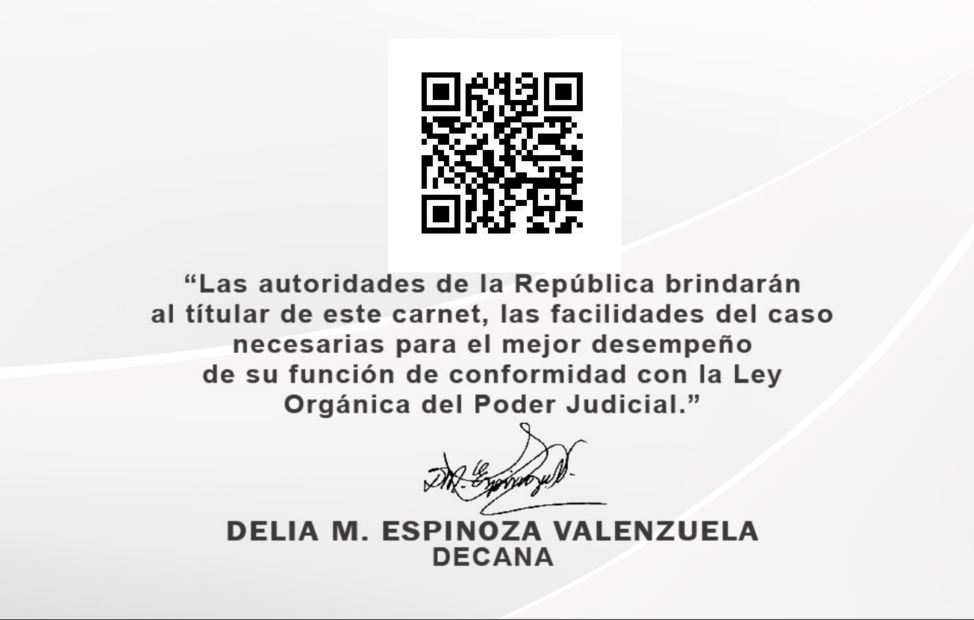
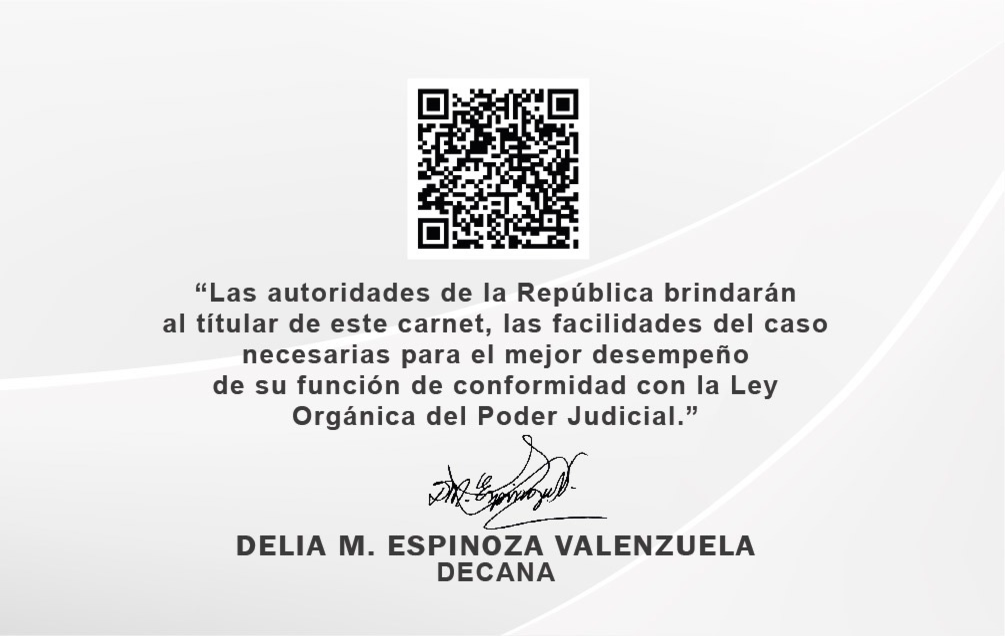
add CE.config

Changed region(s): [[0.154, 0.429, 0.8624, 0.9194], [0.4004, 0.0919, 0.616, 0.3984]]

diff --git a/carnet/carnetService.py b/carnet/carnetService.py
@@ -7,12 +7,12 @@ from PIL import ImageOps
 
 from qr.qrService import QrService
 
-from .carnetConfig import PHOTO, SIGNATURE, TEXT, FONT_SIZE, QR
+from .carnetConfig import PHOTO_DNI, SIGNATURE_CE, SIGNATURE_DNI, TEXT_DNI, PHOTO_CE, TEXT_CE, FONT_SIZE, QR
 
 
 class CarnetService:
-
-    TEMPLATE_PATH = "assets/template.png"
+    TEMPLATE_DNI_PATH = "assets/dni_template.png"
+    TEMPLATE_CE_PATH = "assets/ce_template.png"
     TEMPLATE_BACK_PATH = "assets/back_template.png"
     FONT_PATH = "assets/Montserrat-Bold.ttf"
 
@@ -54,7 +54,7 @@ class CarnetService:
         Path(output_folder).mkdir(exist_ok=True)
 
         carnet = Image.open(
-            self.TEMPLATE_PATH
+            self.TEMPLATE_DNI_PATH
         ).convert("RGBA")
 
         draw = ImageDraw.Draw(carnet)
@@ -69,15 +69,15 @@ class CarnetService:
 
         foto = self._resize_cover(
             foto,
-            PHOTO["width"],
-            PHOTO["height"]
+            PHOTO_DNI["width"],
+            PHOTO_DNI["height"]
         )
 
         carnet.paste(
             foto,
             (
-                PHOTO["x"],
-                PHOTO["y"]
+                PHOTO_DNI["x"],
+                PHOTO_DNI["y"]
             )
         )
 
@@ -91,15 +91,15 @@ class CarnetService:
 
         firma = self._resize_cover(
             firma,
-            SIGNATURE["width"],
-            SIGNATURE["height"]
+            SIGNATURE_DNI["width"],
+            SIGNATURE_DNI["height"]
         )
 
         carnet.paste(
             firma,
             (
-                SIGNATURE["x"],
-                SIGNATURE["y"]
+                SIGNATURE_DNI["x"],
+                SIGNATURE_DNI["y"]
             ),
             firma
         )
@@ -109,28 +109,28 @@ class CarnetService:
         # ======================
 
         draw.text(
-            TEXT["dni"],
+            TEXT_DNI["dni"],
             dni,
             fill="black",
             font=self.font
         )
 
         draw.text(
-            TEXT["apellidos"],
+            TEXT_DNI["apellidos"],
             apellidos,
             fill="black",
             font=self.font
         )
 
         draw.text(
-            TEXT["nombres"],
+            TEXT_DNI["nombres"],
             nombres,
             fill="black",
             font=self.font
         )
 
         draw.text(
-            TEXT["registro"],
+            TEXT_DNI["registro"],
             nro_registro,
             fill="black",
             font=self.font
@@ -139,6 +139,110 @@ class CarnetService:
         output = str(
             Path(output_folder) /
             f"{dni}.png"
+        )
+
+        carnet.save(output)
+
+        return output
+    
+    def generate_ce(self,
+        ce: str,
+        nombres: str,
+        apellidos: str,
+        nro_registro: str,
+        firma_path: str,
+        image_path: str,
+        output_folder: str = "output"
+    ) -> str:
+
+        Path(output_folder).mkdir(exist_ok=True)
+
+        carnet = Image.open(
+            self.TEMPLATE_CE_PATH
+        ).convert("RGBA")
+
+        draw = ImageDraw.Draw(carnet)
+
+        # ======================
+        # FOTO
+        # ======================
+
+        foto = Image.open(
+            image_path
+        ).convert("RGBA")
+
+        foto = self._resize_cover(
+            foto,
+            PHOTO_CE["width"],
+            PHOTO_CE["height"]
+        )
+
+        carnet.paste(
+            foto,
+            (
+                PHOTO_CE["x"],
+                PHOTO_CE["y"]
+            )
+        )
+
+        # ======================
+        # FIRMA
+        # ======================
+
+        firma = Image.open(
+            firma_path
+        ).convert("RGBA")
+
+        firma = self._resize_cover(
+            firma,
+            SIGNATURE_CE["width"],
+            SIGNATURE_CE["height"]
+        )
+
+        carnet.paste(
+            firma,
+            (
+                SIGNATURE_CE["x"],
+                SIGNATURE_CE["y"]
+            ),
+            firma
+        )
+
+        # ======================
+        # TEXTOS
+        # ======================
+
+        draw.text(
+            TEXT_CE["ce"],
+            ce,
+            fill="black",
+            font=self.font
+        )
+
+        draw.text(
+            TEXT_CE["apellidos"],
+            apellidos,
+            fill="black",
+            font=self.font
+        )
+
+        draw.text(
+            TEXT_CE["nombres"],
+            nombres,
+            fill="black",
+            font=self.font
+        )
+
+        draw.text(
+            TEXT_CE["registro"],
+            nro_registro,
+            fill="black",
+            font=self.font
+        )
+
+        output = str(
+            Path(output_folder) /
+            f"{ce}.png"
         )
 
         carnet.save(output)

diff --git a/main.py b/main.py
@@ -3,6 +3,7 @@ from pydantic import BaseModel
 from pathlib import Path
 from carnet import carnetService
 from pdf import pdfService
+from enum import Enum
 
 from sign.upgradeSign import upgrade_sign
 from sign.upgradeSignv import upgrade_sign_v5
@@ -25,10 +26,15 @@ class SignRequest(BaseModel):
 class ImageRequest(BaseModel):
     imageUrl: str
 
+class DocumentType(str, Enum):
+    DNI = "DNI"
+    CE = "CE"
+
 class CarnetRequest(BaseModel):
     imageUrl: str
     signatureUrl: str
-    dni: str
+    number_document: str
+    type_document: DocumentType
     names: str
     lastNames: str
     nro_registro: str
@@ -127,17 +133,36 @@ def generate_carnet(request: CarnetRequest):
 
     carnet_service = carnetService.CarnetService()
 
-    generated_carnet_path = carnet_service.generate(
-        dni=request.dni,
+    generated_carnet_path=""
+
+    if request.type_document == DocumentType.DNI:
+        generated_carnet_path = carnet_service.generate(
+        dni=request.number_document,
         nombres=request.names,
         apellidos=request.lastNames,
         nro_registro=request.nro_registro,
         firma_path=downloaded_signature,
         image_path=downloaded_photo
-    )
+    ) 
+    elif request.type_document == DocumentType.CE:
+        generated_carnet_path = carnet_service.generate_ce(
+        ce=request.number_document,
+        nombres=request.names,
+        apellidos=request.lastNames,
+        nro_registro=request.nro_registro,
+        firma_path=downloaded_signature,
+        image_path=downloaded_photo
+    ) 
+    else :
+        return {
+            "error": "Tipo de documento no soportado"
+        }
+
+
+    
 
     generated_back_carnet_path = carnet_service.generate_back_carnet(
-        dni=request.dni,
+        dni=request.number_document,
         url_qr=request.url,
         output_folder="output"
     )
@@ -146,7 +171,7 @@ def generate_carnet(request: CarnetRequest):
         front_image_path=generated_carnet_path,
         back_image_path=generated_back_carnet_path,
         output_folder="output",
-        filename=f"{request.dni}.pdf"
+        filename=f"{request.number_document}.pdf"
     )
 
     generated_carnet_url = upload_image(

diff --git a/carnet/carnetConfig.py b/carnet/carnetConfig.py
@@ -1,45 +1,51 @@
-#PHOTO = {
-#    "x": 914,
-#    "y": 316,
-#    "width": 177,
-#    "height": 236
-#}
-
-PHOTO = {
-    "x": 680,
-    "y": 242,
-    "width": 238,
-    "height": 320
+PHOTO_DNI = {
+    "x": 689,
+    "y": 257,
+    "width": 229,
+    "height": 305
 }
 
-
-#SIGNATURE = {
-#    "x": 495,
-#    "y": 400,
-#    "width": 142,
-#    "height": 94
-#}
-
-
-SIGNATURE = {
-    "x": 410,
-    "y": 289,
-    "width": 220,
-    "height": 145
+SIGNATURE_DNI = {
+    "x": 424,
+    "y": 298,
+    "width": 215,
+    "height": 180
 }
 
-TEXT = {
+TEXT_DNI = {
     "dni": (425, 508),
     "nombres": (77, 420),
     "apellidos": (76, 323),
     "registro": (77, 508)
 }
 
-QR = {
-    "x": 410,
-    "y": 60,
-    "width": 190,
-    "height": 190
+PHOTO_CE = {
+    "x": 687,
+    "y": 256,
+    "width": 230,
+    "height": 306
 }
 
-FONT_SIZE = 25
+
+SIGNATURE_CE = {
+    "x": 435,
+    "y": 281,
+    "width": 200,
+    "height": 160
+}
+
+TEXT_CE = {
+    "ce": (427, 505),
+    "nombres": (84, 414),
+    "apellidos": (81, 316),
+    "registro": (84, 504)
+}   
+
+QR = {
+    "x": 408,
+    "y": 79,
+    "width": 180,
+    "height": 180
+}
+
+FONT_SIZE = 30
